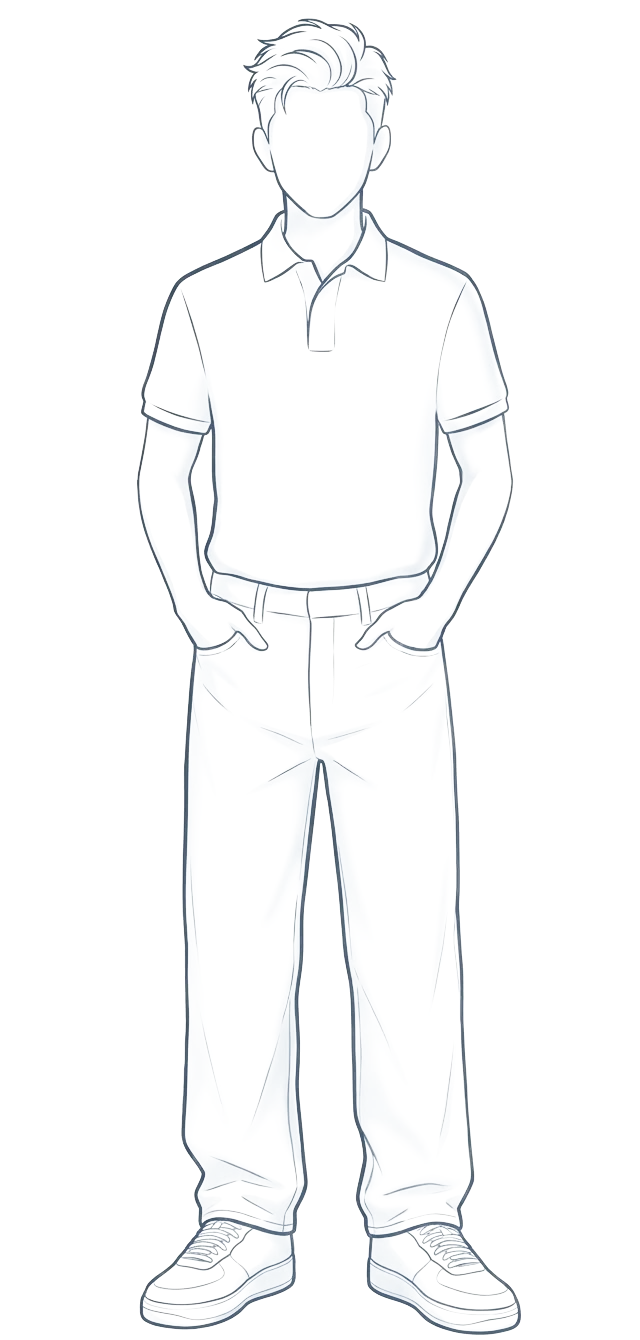
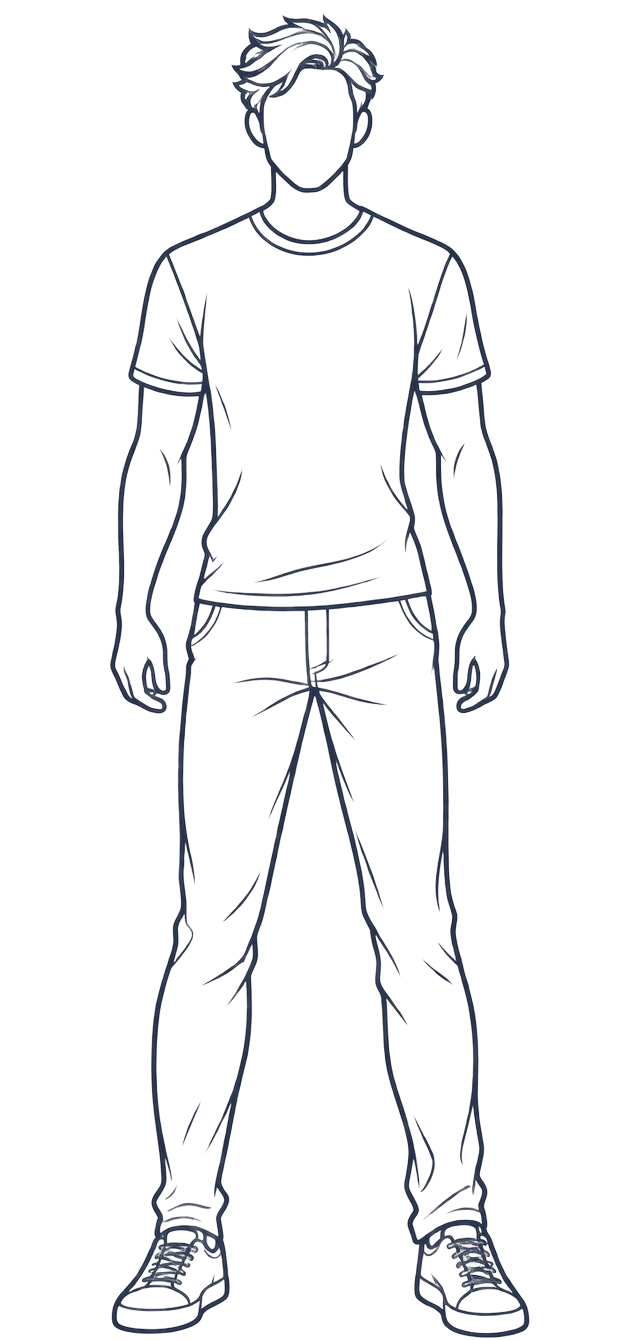
Líquidos: nova personagem masculina
Troca a arte masculina pela de camiseta, calça e tênis, no mesmo estilo da
feminina: arquivo com fundo transparente, máscara tirada do contorno e
traços em azul-marinho, no mesmo quadro.

Claude-Session: https://claude.ai/code/session_017CZ48VrKLeT6nkCKkuk7PA

Changed region(s): [[0.1562, 0.0, 0.8438, 1.0], [0.3438, 0.6119, 0.4375, 0.7955], [0.4062, 0.5201, 0.4375, 0.5507]]

diff --git a/DESIGN_SYSTEM.md b/DESIGN_SYSTEM.md
@@ -160,7 +160,7 @@ Conjunto próprio desenhado em `src/ui/dom.js` (`ICONS`), no espírito dos SF Sy
 - **Perguntas do cadastro** (`onboarding.js`): progresso em traços, título e texto centralizados, opções em cartões (`.opt`: ícone, título, descrição e marca de seleção; escolher não avança), régua deslizante para peso e altura (`.ruler`, com setas do teclado e arraste do mouse; peso em kg ou lb) e botão "Continuar" em cápsula no rodapé.
 - **Popover e menu** (`openPopover` em `dom.js`, `.popover`, `.menu`): painel de vidro preso ao botão que o abriu, com entrada em escala. Fecha ao tocar fora, com Esc, ao rolar ou redimensionar, e devolve o foco. Menus navegam com as setas.
 - **Pastilha de bebida** (`drinkBadge`): círculo na cor da bebida com o ícone em branco. A cor de cada bebida é a mesma no corpo, nos copos e nas listas (`DRINKS` em `hydration.js`).
-- **Corpo** (`bodyFigure` em `body.js`, arte em `img/body/`): ilustrações fornecidas pelo produto, uma feminina (camiseta, shorts e tênis, braços soltos) e uma masculina (polo e calça, mãos nos bolsos), em traço azul-acinzentado e sem rosto. Cada figura é um par de imagens: os traços com fundo transparente (`*-lines.webp`) e a máscara do corpo (`*-mask.webp`), extraída do próprio desenho. A máscara tem fundo transparente e é aplicada por CSS (`mask-image`, modo alpha), não por `<mask>` do SVG, que o Safari não carrega com imagem dentro. O corpo e o líquido são um SVG recortado por essa máscara; os traços são um `<img>` por cima. Os quatro arquivos entram no cache do service worker. Sobe em 1,1 s ao registrar; depois só a superfície ondula, devagar; bolhas nas bebidas com gás. Cheia ao bater a meta, sem passar dela. É uma representação da meta, não uma medida do corpo.
+- **Corpo** (`bodyFigure` em `body.js`, arte em `img/body/`): ilustrações fornecidas pelo produto, uma feminina (camiseta, shorts e tênis, braços soltos) e uma masculina (camiseta, calça e tênis, braços soltos), em traço azul-marinho e sem rosto. Cada figura é um par de imagens: os traços com fundo transparente (`*-lines.webp`) e a máscara do corpo (`*-mask.webp`), extraída do próprio desenho. A máscara tem fundo transparente e é aplicada por CSS (`mask-image`, modo alpha), não por `<mask>` do SVG, que o Safari não carrega com imagem dentro. O corpo e o líquido são um SVG recortado por essa máscara; os traços são um `<img>` por cima. Os quatro arquivos entram no cache do service worker. Sobe em 1,1 s ao registrar; depois só a superfície ondula, devagar; bolhas nas bebidas com gás. Cheia ao bater a meta, sem passar dela. É uma representação da meta, não uma medida do corpo.
 - **Linha de pessoa** (`friends.js`): figura pequena (`miniFigure`, cheia até a porcentagem do dia, numa cor só), nome, ml e %, barra e, na tela de compartilhamento, quanto falta e o botão em cápsula "Cutucar" ou "Aplaudir". O lugar vazio "Seu amigo aqui" leva um círculo com + e "Convidar".
 - **Copos da semana** (`cupFigure`): um copo por dia, com as mesmas camadas; o contorno fica verde no dia que bateu a meta. Tocar abre um popover com o detalhe.
 - **Teclado numérico** (`.keypad`): só em telas de toque, na janela de bebida, para não abrir o teclado do sistema por cima da janela.
